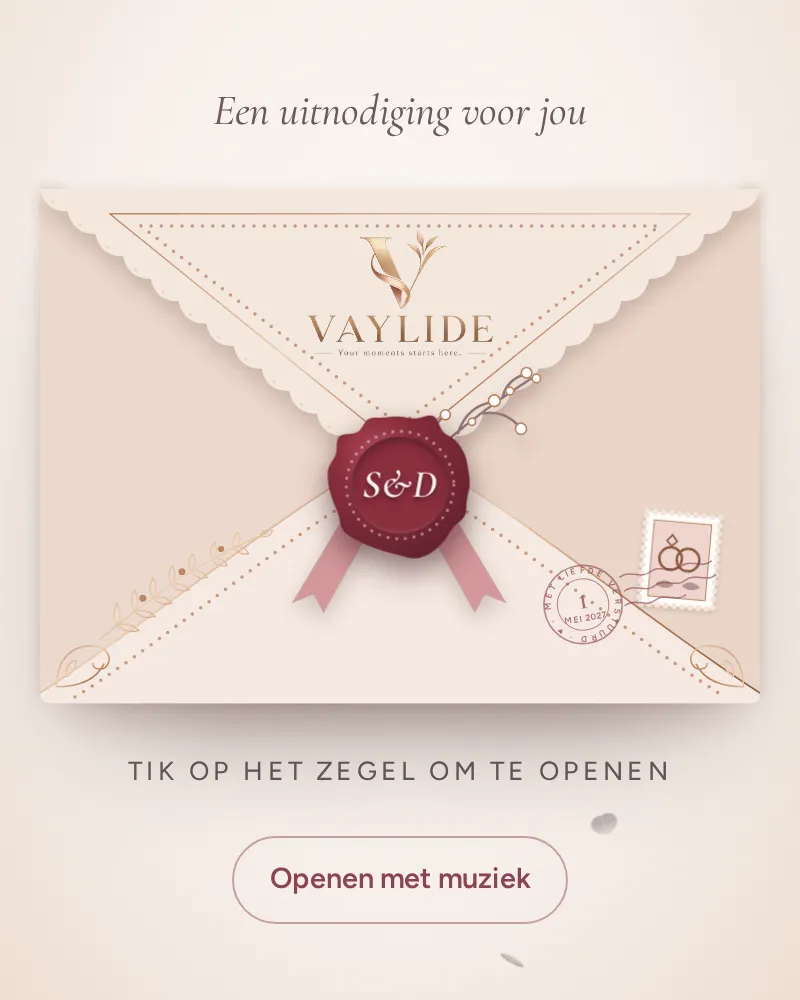
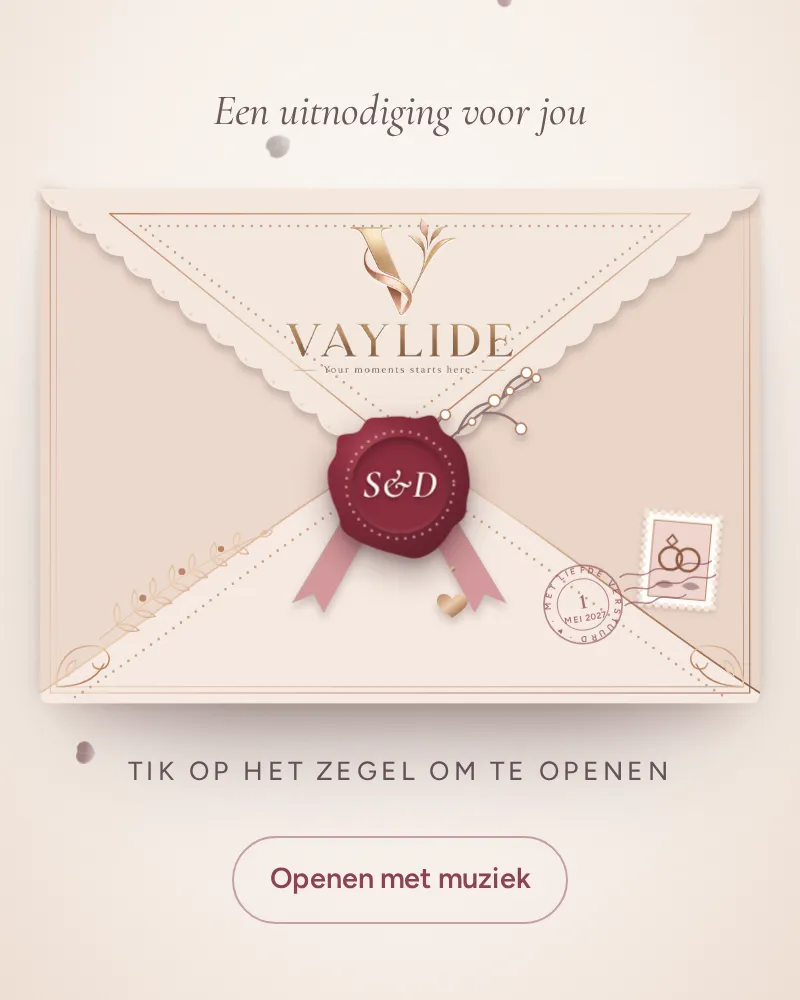
Envelop strakker en speelser, brief springt eruit; promotiefilmpje voor Instagram
- Liefde op papier v2: dubbel gouden kader, groter logo op de klep, gouden
  fonkelingen, gouden hartje aan het lint; de brief springt uit de envelop
  en veert na, met een gouden ring en vonken achter de brief.
- tools/promo/maak_promo.cjs: Instagram-post van 10 seconden (1080 x 1350)
  met de voorbeelduitnodiging in een telefoon en het logo met
  "Jouw moment begint hier" als eindbeeld.
- Nieuw kaartbeeld, documentatie bijgewerkt.

Claude-Session: https://claude.ai/code/session_0135RGDXrUHLvP1RyvcT9kXQ

diff --git a/designs/liefde-op-papier/v2/invitation.html b/designs/liefde-op-papier/v2/invitation.html
@@ -4,7 +4,7 @@
 <link rel="preload" href="{% static 'fonts/cormorant-garamond-latin-wght-normal.woff2' %}" as="font" type="font/woff2" crossorigin>{% endblock %}
 
 {% block cover %}
-<section class="cover lp-cover" data-cover data-duration="4100" data-fx-delay="2650" data-fx-intro="3450" aria-label="Openingsscherm">
+<section class="cover lp-cover" data-cover data-duration="4100" data-fx-delay="2100" data-fx-intro="3450" aria-label="Openingsscherm">
   <div class="fx-slot" data-fx-slot="cover" aria-hidden="true"></div>
   <svg class="lp-defs" width="0" height="0" aria-hidden="true" focusable="false">
     <defs>
@@ -43,6 +43,8 @@
           <path class="lp-pocket-side lp-pocket-side--r" d="M700 10Q700 0 690 0L350 270 682 500H690Q700 500 700 490Z"/>
           <path class="lp-pocket-bottom" d="M0 490C110 420 250 300 350 252C450 300 590 420 700 490Q700 500 690 500H10Q0 500 0 490Z"/>
           <path d="M0 490C110 420 250 300 350 252C450 300 590 420 700 490" fill="none" stroke="url(#lp-foil)" stroke-width="1.6"/>
+          <path class="lp-frame" d="M10 20V490H690V20" fill="none" stroke="url(#lp-foil)" stroke-width="1.2"/>
+          <path class="lp-frame" d="M16 26V484H684V26" fill="none" stroke="url(#lp-foil)" stroke-width=".6"/>
           <path class="lp-pearls" d="M34 494C138 428 262 318 350 276C438 318 562 428 666 494"/>
           <g class="lp-flourish" fill="none" stroke="url(#lp-foil)" stroke-width="1.5" stroke-linecap="round"><path d="M16 484C16 458 30 444 50 444C64 444 70 454 66 462C62 469 52 468 51 461M16 484C42 484 56 474 62 462M26 474c-2-8 2-14 9-16 0 7-3 12-9 16Z" /><g transform="translate(700 0) scale(-1 1)"><path d="M16 484C16 458 30 444 50 444C64 444 70 454 66 462C62 469 52 468 51 461M16 484C42 484 56 474 62 462M26 474c-2-8 2-14 9-16 0 7-3 12-9 16Z" /></g></g>
           <g class="lp-branch" fill="none" stroke="url(#lp-foil)" stroke-width="1.3" stroke-linecap="round" stroke-linejoin="round">
@@ -69,6 +71,7 @@
         </g>
         </svg>
       </div>
+      <div class="lp-env__burst" aria-hidden="true"><i class="lp-burst__ring"></i><span style="--a:-5deg;--r:72;--d:0.00s;--s:0.7"></span><span style="--a:33deg;--r:58;--d:0.05s;--s:1"></span><span style="--a:46deg;--r:72;--d:0.10s;--s:0.7"></span><span style="--a:84deg;--r:58;--d:0.00s;--s:1"></span><span style="--a:98deg;--r:72;--d:0.05s;--s:0.7"></span><span style="--a:136deg;--r:58;--d:0.10s;--s:1"></span><span style="--a:149deg;--r:72;--d:0.00s;--s:0.7"></span><span style="--a:187deg;--r:58;--d:0.05s;--s:1"></span><span style="--a:201deg;--r:72;--d:0.10s;--s:0.7"></span><span style="--a:238deg;--r:58;--d:0.00s;--s:1"></span><span style="--a:252deg;--r:72;--d:0.05s;--s:0.7"></span><span style="--a:290deg;--r:58;--d:0.10s;--s:1"></span><span style="--a:304deg;--r:72;--d:0.00s;--s:0.7"></span><span style="--a:341deg;--r:58;--d:0.05s;--s:1"></span></div>
       <div class="lp-env__lid">
       <div class="lp-env__flap">
         <div class="lp-flap__face lp-flap__face--front">
@@ -80,7 +83,7 @@
           </svg>
           <img class="lp-flap__logo" src="{% static 'img/merk/vaylide-logo.webp' %}" width="350" height="240" alt="">
           <div class="lp-flap__seal">
-            <svg class="lp-seal__ribbon" viewBox="0 0 216 216" aria-hidden="true" focusable="false"><g class="lp-sprig-seal"><path class="lp-sprig-seal__stem" d="M118 98C140 76 166 54 204 30M150 70c4-12 12-20 24-22M168 56c10-2 20 2 26 10M134 84c-4-10-2-20 6-26M182 44c2-8 8-14 16-16" fill="none" stroke-width="1.8" stroke-linecap="round"/><g class="lp-sprig-seal__buds"><circle cx="176" cy="47" r="4.2"/><circle cx="195" cy="67" r="4"/><circle cx="141" cy="57" r="3.6"/><circle cx="199" cy="27" r="3.8"/><circle cx="206" cy="31" r="3"/><circle cx="187" cy="40" r="2.8"/><circle cx="160" cy="62" r="2.6"/></g></g><path class="lp-ribbon lp-ribbon--l" d="M102 112 54 198l-7-13-15 6 54-90Z"/><path class="lp-ribbon lp-ribbon--r" d="M114 112l48 86 7-13 15 6-54-90Z"/></svg>
+            <svg class="lp-seal__ribbon" viewBox="0 0 216 216" aria-hidden="true" focusable="false"><g class="lp-sprig-seal"><path class="lp-sprig-seal__stem" d="M118 98C140 76 166 54 204 30M150 70c4-12 12-20 24-22M168 56c10-2 20 2 26 10M134 84c-4-10-2-20 6-26M182 44c2-8 8-14 16-16" fill="none" stroke-width="1.8" stroke-linecap="round"/><g class="lp-sprig-seal__buds"><circle cx="176" cy="47" r="4.2"/><circle cx="195" cy="67" r="4"/><circle cx="141" cy="57" r="3.6"/><circle cx="199" cy="27" r="3.8"/><circle cx="206" cy="31" r="3"/><circle cx="187" cy="40" r="2.8"/><circle cx="160" cy="62" r="2.6"/></g></g><path class="lp-ribbon lp-ribbon--l" d="M102 112 54 198l-7-13-15 6 54-90Z"/><path class="lp-ribbon lp-ribbon--r" d="M114 112l48 86 7-13 15 6-54-90Z"/><g class="lp-charm"><path d="M146 168v18" stroke="url(#lp-foil)" stroke-width="1.2" fill="none"/><path d="M146 202c-7-5-11-8-11-12 0-3 2-5 5-5 3 0 5 2 6 4 1-2 3-4 6-4 3 0 5 2 5 5 0 4-4 7-11 12Z" fill="url(#lp-foil)"/><circle cx="146" cy="167" r="2" fill="url(#lp-foil)"/></g></svg>
             <span class="lp-seal__wax"><svg viewBox="0 0 120 120" focusable="false"><path d="M109.2 60C109.1 63.6 107.8 67.1 107.2 70.8C106.7 74.4 107.3 78.8 105.6 82C104 85.2 100 87.1 97.6 90C95.2 92.9 93.7 96.3 91.3 99.2C88.8 102.1 86 105.3 82.8 107.3C79.6 109.4 75.6 111.4 71.8 111.8C68 112.2 63.8 110.5 60 109.7C56.2 108.9 52.8 107.9 49.3 106.9C45.8 105.9 42.5 104.8 39.1 103.4C35.7 102.1 32.2 100.7 29 98.8C25.8 96.9 21.9 95 19.8 92.1C17.7 89.1 17.7 84.5 16.4 81C15.2 77.4 13.6 74.4 12.4 70.9C11.3 67.4 10 63.7 9.4 60C8.9 56.3 8.5 52.1 9.3 48.4C10.2 44.8 13.4 41.9 14.6 38.2C15.9 34.4 14.4 28.3 17 25.7C19.6 23.1 26.6 24.5 30.1 22.5C33.5 20.4 34.5 15.2 37.6 13.5C40.8 11.8 45.4 12.5 49.1 12.2C52.8 11.8 56.4 11.4 60 11.6C63.6 11.7 66.8 13 70.8 12.9C74.7 12.8 80.3 9.7 83.5 11.2C86.8 12.7 87.7 19.1 90.3 22C92.9 24.9 96.8 25.9 99.4 28.6C101.9 31.3 104.1 34.6 105.6 38C107.1 41.4 107.6 45.3 108.2 49C108.8 52.7 109.4 56.4 109.2 60Z" fill="url(#lp-wax)"/><circle cx="60" cy="60" r="38" class="lp-seal__beads"/></svg><span class="lp-seal__mono">{{ v.monogram }}</span></span>
           </div>
         </div>
@@ -95,6 +98,7 @@
       </div>
       </div>
     </div>
+    <div class="lp-twinkles" aria-hidden="true"><span style="--x:9%;--y:64%;--d:0s"></span><span style="--x:83%;--y:30%;--d:0.7s"></span><span style="--x:93%;--y:78%;--d:1.4s"></span><span style="--x:30%;--y:85%;--d:2.1s"></span><span style="--x:70%;--y:14%;--d:2.8s"></span><span style="--x:48%;--y:92%;--d:3.5s"></span></div>
     <a href="#uitnodiging" class="lp-seal fx-pulse" data-open data-fx-origin aria-label="Open de uitnodiging"></a>
     </div>
     <p class="lp-cover__hint">Tik op het zegel om te openen</p>

diff --git a/designs/liefde-op-papier/v2/style.css b/designs/liefde-op-papier/v2/style.css
@@ -99,7 +99,8 @@ body {
 .lp-pocket-side { fill: color-mix(in srgb, var(--lp-envelope-2) 72%, var(--lp-envelope)); }
 .lp-pocket-side--r { fill: color-mix(in srgb, var(--lp-envelope-2) 88%, var(--lp-envelope)); }
 .lp-pocket-bottom { fill: color-mix(in srgb, var(--lp-envelope) 82%, #fff); }
-.lp-pearls { fill: none; stroke: var(--lp-gold); stroke-width: 3.4; stroke-linecap: round; stroke-dasharray: 0 10; opacity: .8; }
+.lp-pearls { fill: none; stroke: var(--lp-gold); stroke-width: 2.6; stroke-linecap: round; stroke-dasharray: 0 9; opacity: .75; }
+.lp-frame { opacity: .85; }
 .lp-postmark { stroke: color-mix(in srgb, var(--lp-accent) 60%, transparent); }
 .lp-postmark text { fill: color-mix(in srgb, var(--lp-accent) 75%, transparent); stroke: none; font-family: "Figtree", sans-serif; }
 .lp-postmark__ring { font-size: 8.4px; letter-spacing: .14em; font-weight: 600; }
@@ -121,11 +122,11 @@ body {
   transform-origin: 50% 0; transform: rotateX(0deg); transform-style: preserve-3d;
 }
 .lp-flap__face { position: absolute; inset: 0; backface-visibility: hidden; -webkit-backface-visibility: hidden; }
-.lp-flap__face--front svg { filter: drop-shadow(0 5px 5px rgba(60, 30, 30, .2)); }
+.lp-flap__face--front svg { filter: drop-shadow(0 3px 2px rgba(60, 30, 30, .22)); }
 .lp-flap__face--liner { transform: rotateX(180deg); }
 .lp-flap-paper { fill: color-mix(in srgb, var(--lp-envelope) 88%, #fff); }
 .lp-flap-holes { fill: var(--lp-envelope-2); }
-.lp-flap__logo { position: absolute; left: 50%; top: 13%; width: 26%; height: auto; transform: translateX(-50%); }
+.lp-flap__logo { position: absolute; left: 50%; top: 9%; width: 32%; height: auto; transform: translateX(-50%); filter: drop-shadow(0 1px 0 rgba(255, 255, 255, .6)); }
 
 /* Het lakzegel met lint en takje zit vast op de punt van de klep en klapt mee open.
    De knop (.lp-seal) ligt er onzichtbaar bovenop. */
@@ -170,6 +171,26 @@ body {
   transition: opacity .4s ease;
 }
 
+/* Gouden fonkelingen op de envelop (alleen met beweging aan) */
+.lp-twinkles { position: absolute; inset: 0; z-index: 6; pointer-events: none; }
+.lp-twinkles span {
+  position: absolute; left: var(--x); top: var(--y); width: 14px; aspect-ratio: 1; translate: -50% -50%; opacity: .0;
+  background: linear-gradient(135deg, var(--lp-gold-light), var(--lp-gold) 60%, var(--lp-gold-deep));
+  clip-path: polygon(50% 0, 60% 40%, 100% 50%, 60% 60%, 50% 100%, 40% 60%, 0 50%, 40% 40%);
+}
+.fx-motion .lp-twinkles span { animation: lp-twinkle 4.2s ease-in-out var(--d) infinite; animation-play-state: var(--fx-play, running); }
+@keyframes lp-twinkle { 0%, 70%, 100% { opacity: 0; scale: .3; rotate: 0deg; } 80% { opacity: .95; scale: 1; rotate: 45deg; } }
+.is-opening .lp-twinkles { opacity: 0; transition: opacity .3s ease; }
+
+/* Gouden vonken achter de brief op het moment dat hij eruit springt */
+.lp-env__burst { position: absolute; left: 50%; top: 22%; width: 0; height: 0; z-index: 5; pointer-events: none; }
+.lp-env__burst span {
+  position: absolute; left: 0; top: 0; width: calc(26px * var(--s)); aspect-ratio: 1; translate: -50% -50%; opacity: 0; filter: drop-shadow(0 0 3px rgba(255, 236, 200, .9));
+  background: linear-gradient(135deg, var(--lp-gold-light), var(--lp-gold) 55%, var(--lp-gold-deep));
+  clip-path: polygon(50% 0, 61% 39%, 100% 50%, 61% 61%, 50% 100%, 39% 61%, 0 50%, 39% 39%);
+}
+.lp-burst__ring { position: absolute; left: 0; top: 0; width: 40px; aspect-ratio: 1; translate: -50% -50%; border-radius: 50%; border: 2px solid var(--lp-gold); opacity: 0; }
+
 /* ---------- Openen ---------- */
 .is-opening .lp-seal { animation: none; pointer-events: none; }
 /* De envelop zakt iets, zodat de brief ruimte heeft om eruit te komen. */
@@ -197,15 +218,27 @@ body {
 .fx-motion.is-opening .lp-env__lid { animation: lp-lid-back 0s linear 1s forwards; }
 @keyframes lp-lid-back { to { z-index: 0; } }
 
-/* 1,4 – 3,4 s: de brief glijdt in één beweging uit de envelop, naar voren en groot in beeld */
-.fx-motion.is-opening .lp-env__letter { animation: lp-letter-out 2s 1.4s both; }
+/* 1,35 – 3,15 s: de brief springt uit de envelop, veert na en blijft groot in beeld */
+.fx-motion.is-opening .lp-env__letter { animation: lp-letter-out 1.8s 1.35s both; }
 @keyframes lp-letter-out {
-  0% { transform: translateY(0); z-index: 1; animation-timing-function: cubic-bezier(.5, 0, .4, 1); }
-  52% { transform: translateY(-98%); z-index: 1; animation-timing-function: cubic-bezier(.3, 0, .25, 1); }
-  53% { z-index: 6; }
-  100% { transform: translateY(-14%) scale(1.12); z-index: 6; }
+  0% { transform: translateY(0); z-index: 1; animation-timing-function: cubic-bezier(.25, .1, .2, 1); }
+  38% { transform: translateY(-104%) rotate(-3deg); z-index: 1; animation-timing-function: cubic-bezier(.45, 0, .3, 1); }
+  39% { z-index: 6; }
+  62% { transform: translateY(-10%) scale(1.22) rotate(2deg); z-index: 6; animation-timing-function: ease-in-out; }
+  78% { transform: translateY(-16%) scale(1.08) rotate(-.8deg); z-index: 6; animation-timing-function: ease-in-out; }
+  90% { transform: translateY(-13%) scale(1.14) rotate(.3deg); z-index: 6; }
+  100% { transform: translateY(-14%) scale(1.12) rotate(0deg); z-index: 6; }
 }
-.fx-motion.is-opening .lp-letter__shine { animation: lp-shine 1.2s ease-in-out 2.9s both; }
+.fx-motion.is-opening .lp-env__burst span { animation: lp-burst 1.6s cubic-bezier(.15, .7, .3, 1) calc(2.05s + var(--d)) both; }
+@keyframes lp-burst {
+  0% { opacity: 0; transform: rotate(var(--a)) translateX(0) scale(.2); }
+  15% { opacity: 1; }
+  70% { opacity: 1; }
+  100% { opacity: 0; transform: rotate(var(--a)) translateX(calc(var(--r) * min(.9vw, 4.8px))) scale(1) rotate(90deg); }
+}
+.fx-motion.is-opening .lp-burst__ring { animation: lp-ring 1s cubic-bezier(.2, .7, .3, 1) 2.05s forwards; }
+@keyframes lp-ring { 0% { opacity: .9; scale: .3; } 100% { opacity: 0; scale: 9; } }
+.fx-motion.is-opening .lp-letter__shine { animation: lp-shine 1.1s ease-in-out 2.5s both; }
 @keyframes lp-shine { 0% { opacity: 1; transform: translateX(-60%); } 100% { opacity: 1; transform: translateX(60%); } }
 
 /* 2,5 – 3,4 s: de lege envelop vervaagt zacht achter de brief (hij blijft op zijn plek) */

diff --git a/docs/AANPAK.md b/docs/AANPAK.md
@@ -220,11 +220,13 @@ Het werd **Liefde op papier v2** (`designs/liefde-op-papier/v2/`); v1 blijft ong
 - **De envelop**: een klep met een kanten rand (schulpjes met gaatjes), een gouden lijn en een parelrand, en het **Vaylide-logo** zoals aangeleverd (het hele logo, als afbeelding, niet hertekend). Een gevoerde binnenkant met een bloemetjespatroon, ook aan de binnenkant van de klep. Op de voorkant een gouden olijftakje, krulletjes in de hoeken, een parelrand langs de onderklep, een **postzegel** (bij bruiloft, verloving en jubileum twee ringen, anders een hartje) en een **poststempel** "Met liefde verstuurd" met de dag, maand en het jaar.
 - **Het lakzegel** heeft een onregelmatige rand van was, een rand van puntjes, de initialen, twee linten en een takje. Het zit vast op de punt van de klep.
 - **De brief** heeft een dubbele gouden lijst met krullen in de hoeken, de namen in handschrift, een hartje, de datum en de locatie.
-- **Openen (ongeveer 4 seconden, in één beweging)**: het zegel veert zacht in, de klep klapt aan de vouw open met het zegel eraan (met wat schaduw halverwege), er komt licht uit de envelop, de brief glijdt eruit en zweeft naar voren, er glijdt een glans over, de bloemblaadjes komen (de knal), de lege envelop vervaagt achter de brief en het scherm gaat over in de uitnodiging. Er breekt of valt niets los. De gouden kleuren zijn per kleurvariant (`--lp-gold`, `--lp-gold-light`, `--lp-gold-deep`).
+- **Openen (ongeveer 4 seconden, in één beweging)**: het zegel veert zacht in, de klep klapt aan de vouw open met het zegel eraan (met wat schaduw halverwege), er komt licht uit de envelop, de brief springt eruit en veert na, er glijdt een glans over, de bloemblaadjes komen (de knal), de lege envelop vervaagt achter de brief en het scherm gaat over in de uitnodiging. Er breekt of valt niets los. De gouden kleuren zijn per kleurvariant (`--lp-gold`, `--lp-gold-light`, `--lp-gold-deep`).
 - **Namen, datum en locatie**: die staan op de brief en verschijnen daarna na elkaar in de kop (de bestaande effecten). **Niet** automatisch naar beneden scrollen: de pagina laten bewegen zonder dat de gast dat doet, is lastig voor wie zelf wil scrollen of een schermlezer gebruikt. In het voorbeeldfilmpje scrolt de "gast" zelf.
 - **Eindtekst**: onderaan de uitnodiging staat "Jouw moment begint hier — Vaylide" (met VAYLIDE in hoofdletters via de opmaak, zodat schermlezers de naam goed uitspreken).
 - **Meteen de versie voor nieuwe klanten.** Een nieuwe sleutel in het manifest, `make_current`, maakt een nieuwe versie bij het eerste inlezen (`migrate` of `sync_designs`) de versie voor nieuwe klanten. Daardoor staat v2 na het bijwerken van de site direct op de website en in het samenstellen. Een latere keuze in Beheer → Ontwerpen blijft staan.
 - **Het kaartbeeld** in de collectie (`static/img/designs/liefde-op-papier.webp`) is opnieuw gemaakt met de nieuwe envelop.
+- **Daarna** stuurde de eigenaar een opname van de oude envelop op de site met de vraag de envelop "mooier en strakker" te maken, "met een logo van ons logo erop en wat meer designtjes erin", en "dat die gewoon echt eruit springt". Erbij gekomen: een strak dubbel gouden kader langs de voorkant, een groter logo op de klep, gouden fonkelingen op de envelop (alleen met beweging aan), een gouden hartje aan het lint, en de brief springt nu uit de envelop en veert na, met een gouden ring en vonken achter de brief.
+- **Promotiefilmpje.** De eigenaar vroeg daarna om "een Insta-post" van "dit design, met alles wat ik erin wil hebben": de opzet van 10 seconden hierboven. Dat is `tools/promo/maak_promo.cjs` (1080 × 1350, zonder geluid), met de echte voorbeelduitnodiging in een telefoon en klein "Voorbeeld met fictieve namen" eronder. Zie `tools/promo/README.md`.
 
 ## Referenties en schermopname
 

diff --git a/docs/CONTROLES.md b/docs/CONTROLES.md
@@ -242,6 +242,8 @@ Gedraaid tegen de ontwikkelserver, in Chromium (Playwright):
 - **Effecten** (`e2e/effecten.cjs liefde-op-papier`): 8/8 ok. Het script wacht bij de knal nu op het moment uit `data-fx-delay`, omdat de knal bij deze envelop pas komt als de brief naar voren komt (na 2,65 s); Avondgoud en Rozentuin daarna opnieuw: 24/24 ok.
 - **Toegankelijkheid en contrast** (`e2e/toegankelijkheid.cjs liefde-op-papier`): alle vier kleuren, dicht en geopend: 8 pagina's, 0 bevindingen.
 - **Met het oog bekeken**: de envelop dicht in alle vier kleuren; het openen als reeks van 16 tot 18 momenten op 430 × 932 (bruiloft, Blush); dicht, tijdens en na het openen op 360, 768 en 1366 pixels breed; de eindtekst onderaan. Gevonden en opgelost: de binnenkant van de klep stond na het openklappen op zijn kop (punt naar beneden); de klep viel bij het wegzakken van de envelop terug naar de voorkant (een doorzichtigheidsanimatie op de klep zelf maakte de 3D-weergave plat); de brief schoof bij het naar voren komen even over de zijkanten van de envelop.
+- **Na de extra versiering** (kader, groter logo, fonkelingen, hartje, springende brief): tests 145/145, effecten 8/8, toegankelijkheid 8 pagina's zonder bevindingen; het openen opnieuw als reeks bekeken. Gevonden en opgelost: de gouden ring stond als klein rondje in de envelop te wachten tot hij afging.
+- **Promotiefilmpje** (`tools/promo/maak_promo.cjs`): gemaakt en als reeks beelden bekeken (10,0 s, 1080 × 1350). Gevonden en opgelost: de tik op het zegel opende de envelop niet (de klik viel naast de vergrote telefoon); het scrollen haperde door het zachte scrollen van de pagina; de kop was nog niet in beeld als het scrollen begon.
 - **Niet gecontroleerd**: Safari, Firefox en echte telefoons (de 3D-klep met `backface-visibility` is daar extra het bekijken waard); de volledige `e2e/controle2.cjs` over alle ontwerpen.
 
 ### Productie-achtige controles

diff --git a/tools/promo/README.md b/tools/promo/README.md
@@ -1,0 +1,22 @@
+# Promotiefilmpje (Instagram-post)
+
+`maak_promo.cjs` maakt een filmpje van 10 seconden in het formaat van een Instagram-post (1080 × 1350,
+30 beelden per seconde, zonder geluid): een telefoon met de voorbeelduitnodiging van Liefde op papier
+bij een bruiloft.
+
+| Tijd | Wat je ziet |
+| --- | --- |
+| 0 – 2 s | De dichte envelop met het Vaylide-logo |
+| 2 – 5,8 s | Een tik op het zegel; de klep klapt open en de brief springt eruit |
+| 5,8 – 8,8 s | De namen, de datum en de locatie; het beeld zakt rustig een stukje |
+| 8,8 – 10 s | Het logo (zoals aangeleverd) met "Jouw moment begint hier" |
+
+Onderaan staat klein "Voorbeeld met fictieve namen": de namen en de locatie zijn verzonnen.
+
+```bash
+.venv/bin/python manage.py runserver                     # in een eigen terminal
+node tools/promo/maak_promo.cjs http://127.0.0.1:8000 vaylide-promo.mp4 [blush|salie|lavendel|bordeaux-goud]
+```
+
+Nodig: Playwright met Chromium en `ffmpeg`. Het script neemt de echte pagina op (CDP-screencast van
+Chromium) en voegt de beelden met ffmpeg samen. Muziek voeg je in Instagram zelf toe.

diff --git a/CLAUDE.md b/CLAUDE.md
@@ -17,7 +17,7 @@ cp .env.example .env                      # zet een eigen DJANGO_SECRET_KEY; gee
 .venv/bin/python manage.py test tests     # 145 tests, moeten altijd slagen
 ```
 
-Visuele controles (Node met Playwright en Chromium): zie "Zelf herhalen" in `docs/CONTROLES.md` (`e2e/fixtures.py`, `e2e/controle2.cjs`, `e2e/toegankelijkheid.cjs` en `e2e/effecten.cjs`). Beelden opnieuw maken: `tools/logo/README.md` (logo en iconen), `tools/merkbeelden/README.md` (website), `tools/generate_demo_images.py` (voorbeeldbeelden) en `e2e/make_design_images.cjs` (kaartbeelden van de ontwerpen).
+Visuele controles (Node met Playwright en Chromium): zie "Zelf herhalen" in `docs/CONTROLES.md` (`e2e/fixtures.py`, `e2e/controle2.cjs`, `e2e/toegankelijkheid.cjs` en `e2e/effecten.cjs`). Beelden opnieuw maken: `tools/logo/README.md` (logo en iconen), `tools/merkbeelden/README.md` (website), `tools/generate_demo_images.py` (voorbeeldbeelden) en `e2e/make_design_images.cjs` (kaartbeelden van de ontwerpen). Promotiefilmpje (Instagram-post): `tools/promo/README.md`.
 
 ## Waar zit wat
 
